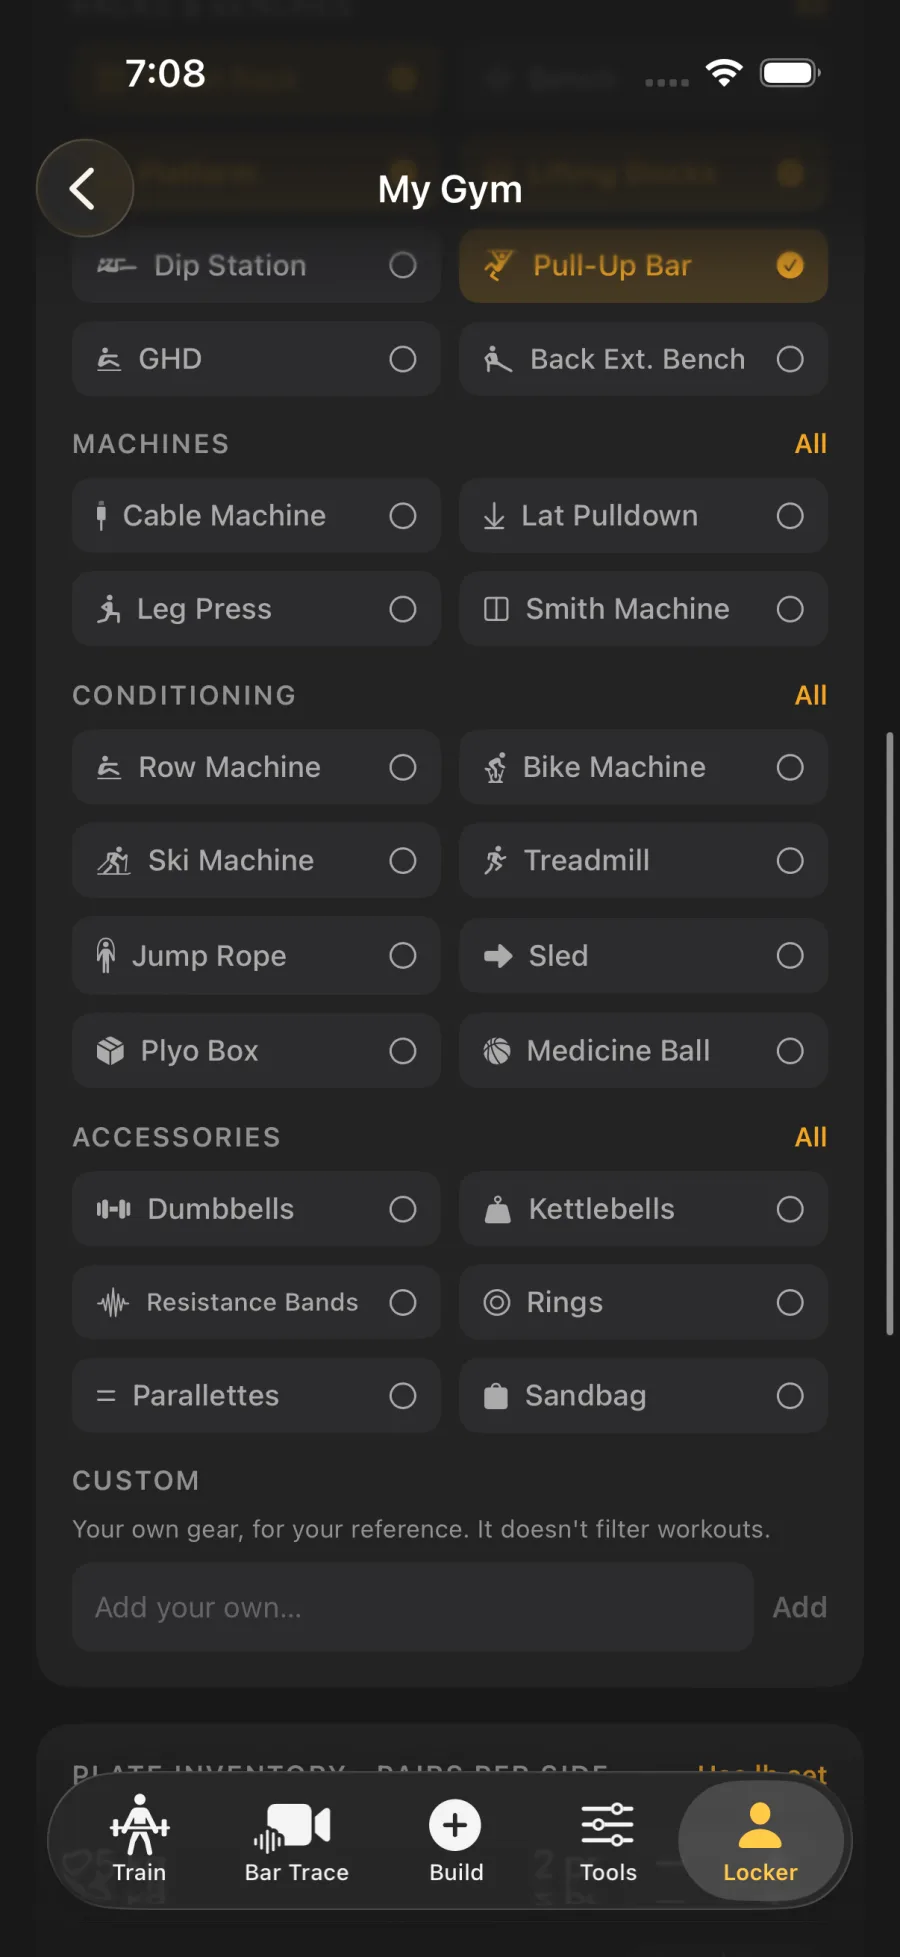
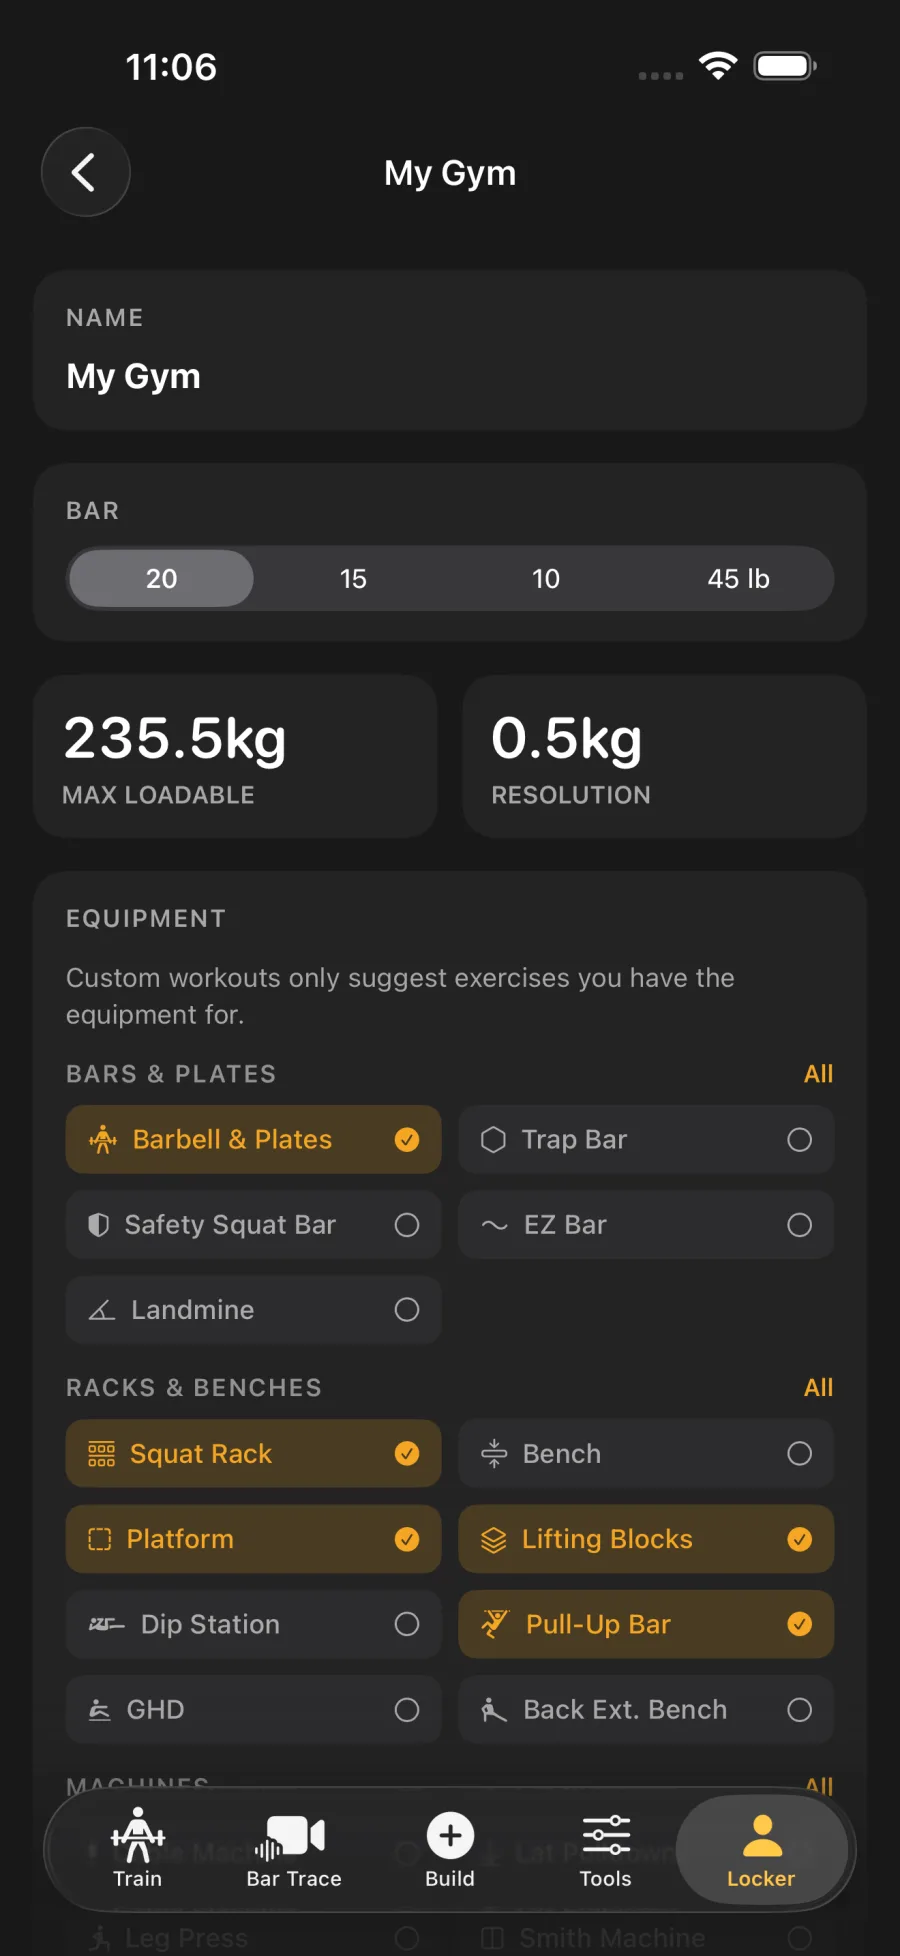
Refresh Integrations and Gym profile screenshots, fix Lift detail copy
Integrations was showing a stale 4-section Settings layout; Apple
Health is now its own single screen, captured unscrolled. Gym profile
was cropped mid-list at Dip Station/Pull-Up Bar; now shows the actual
top: Barbell & Plates, Squat Rack, Platform. Lift detail's caption
said "video" for a screen that's a static how-to diagram with a key
cues checklist, no video anywhere in it.

diff --git a/site/src/sections/Explore.jsx b/site/src/sections/Explore.jsx
@@ -13,7 +13,7 @@ const EXPLORE_GROUPS = [
   ] },
   { g: 'Learn', items: [
     { k: 'library', label: 'Exercise library', body: 'Illustrated library for every lift and accessory.', src: 'assets/screens/05-exercise-library.png' },
-    { k: 'detail', label: 'Lift detail', body: 'Cues, video, and common faults for the snatch.', src: 'assets/screens/06-exercise-detail-snatch.png' },
+    { k: 'detail', label: 'Lift detail', body: 'A descriptive how-to diagram, key cues, and common faults for the snatch.', src: 'assets/screens/06-exercise-detail-snatch.png' },
   ] },
   { g: 'Calculate', items: [
     { k: '1rm', label: '1RM estimator', body: 'Estimate a true max without testing it.', src: 'assets/screens/19-1rm-estimator.png' },
